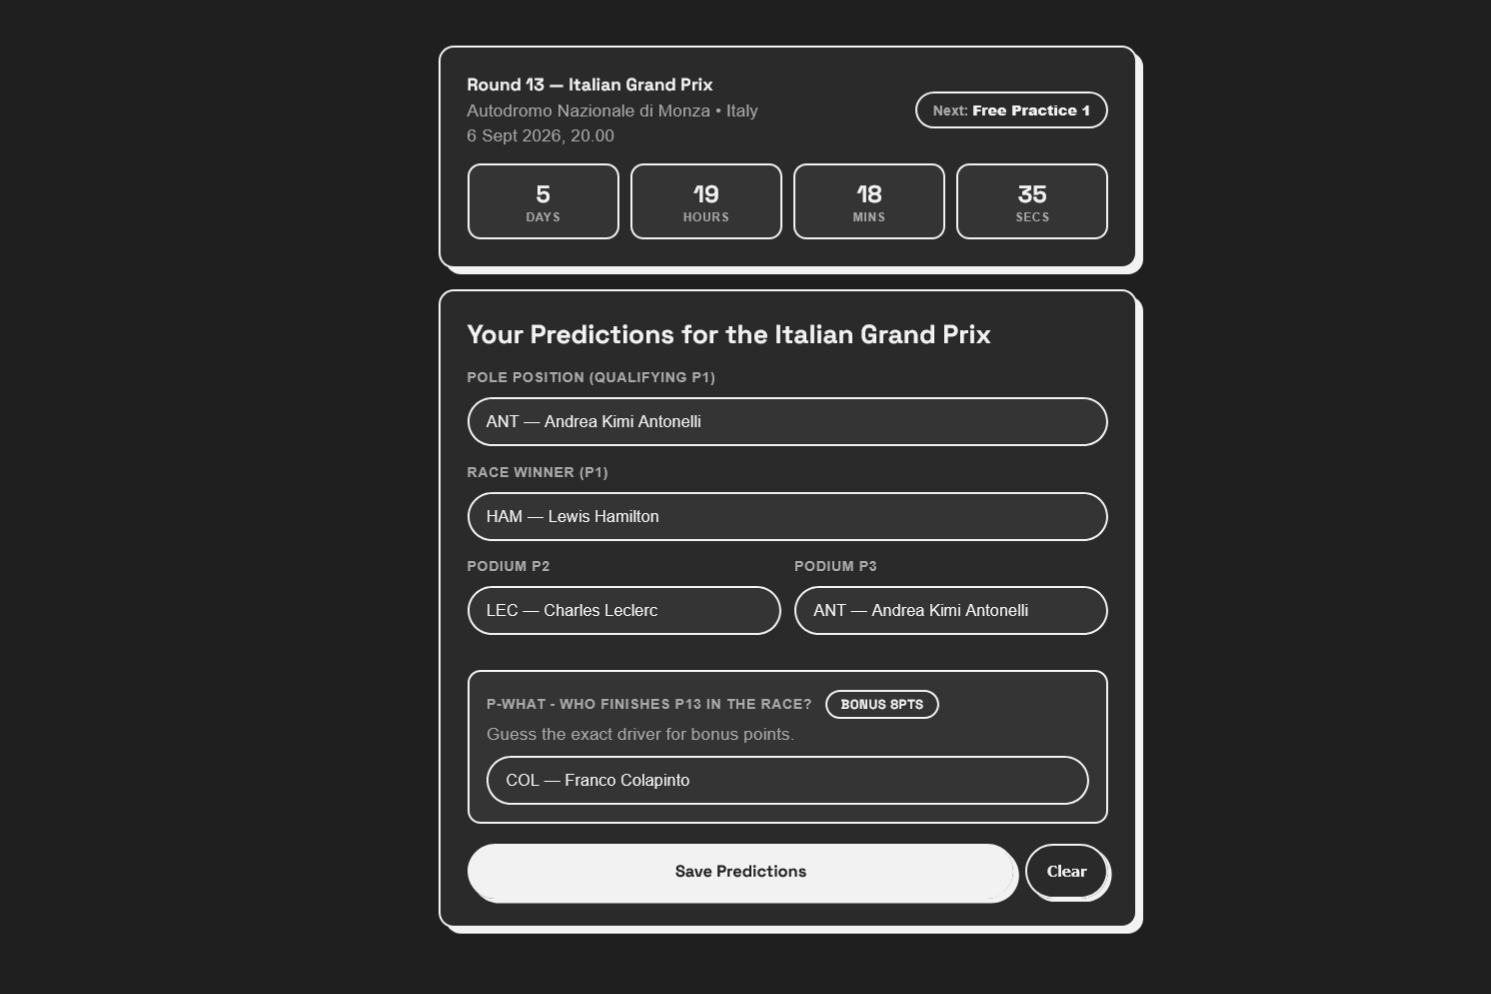
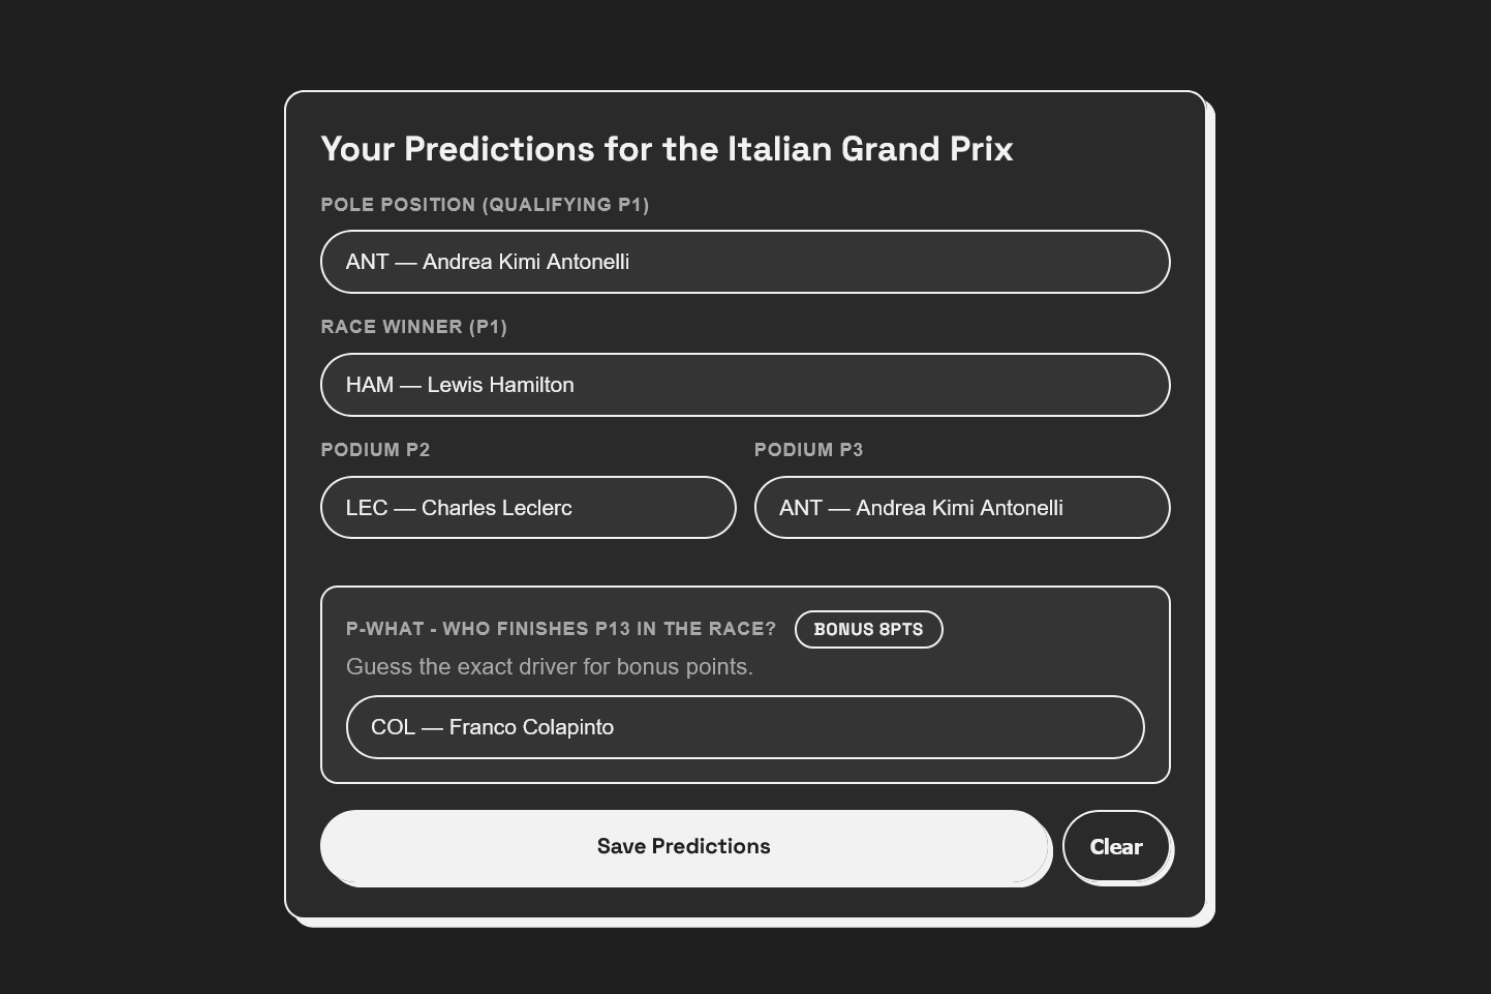
updated project cards and f1 prediction project page

Changed region(s): [[0.1851, 0.0312, 0.833, 0.9668]]

diff --git a/project-pages/f1-prediction.html b/project-pages/f1-prediction.html
@@ -12,7 +12,8 @@
     </script>
     <link rel="icon" href="../assets/images/favicon.png" />
     <title>F1 Weekend Predictor | Albert Benedict</title>
-    <meta name="description" content="Pick pole, winner, podium, sprint and wildcard for each F1 weekend and auto-score vs live results. Vanilla HTML/CSS/JS, Jolpica + OpenF1, cached via localStorage.">
+    <meta name="description"
+        content="Pick pole, winner, podium, sprint and wildcard for each F1 weekend and auto-score vs live results. Vanilla HTML/CSS/JS, Jolpica + OpenF1, cached via localStorage.">
     <meta name="viewport" content="width=device-width, initial-scale=1" />
     <link rel="stylesheet" href="../css/layout.css">
     <link rel="stylesheet" href="../css/typography.css">
@@ -35,10 +36,14 @@
     <div id="main-content">
         <div id="project-header">
             <div class="main-title">F1 Weekend Predictor</div>
-            <div class="body-text">A vanilla HTML/CSS/JS prediction game for Formula 1 weekends. Pick pole, podium, winner and a wildcard for each Grand Prix and see how you score once results are in — static site, no backend.</div>
+            <div class="body-text">A vanilla HTML/CSS/JS prediction game for Formula 1 weekends. Pick pole, podium,
+                winner and a wildcard for each Grand Prix and see how you score once results are in — static site, no
+                backend.</div>
             <div class="project-header-image-wrapper">
-                <img class="project-header-image light-image" src="../assets/images/desktop.jpeg" alt="F1 Predictor light">
-                <img class="project-header-image dark-image" src="../assets/images/desktop.jpeg" alt="F1 Predictor dark">
+                <img class="project-header-image light-image" src="../assets/images/predict-blank-light.png"
+                    alt="F1 Predictor light">
+                <img class="project-header-image dark-image" src="../assets/images/predict-blank-dark.png"
+                    alt="F1 Predictor dark">
             </div>
             <div class="project-links"><a class="button" href="https://albertbenedict.github.io/f1-prediction/"
                     target="_blank"><span class="button-text">Open Live
@@ -51,11 +56,34 @@
         <div id="project-details">
             <div class="subheader-text">Project Details / Background</div>
             <div class="project-details-content">
-                <div class="body-text">As an F1 fan I wanted a lightweight way to play the whole weekend — not just race winner. The game covers a full Grand Prix: pole, winner, P2/P3, plus sprint pole/win on sprint weekends and a bonus Wildcard (a random P4–22 slot drawn per round via a deterministic hash so everyone gets the same target).</div>
-                <div class="body-text"><strong>Tech:</strong> HTML (tabs: Play / Your Predictions / Standings / Past Results), CSS (vars <code>--bg-color / --surface / --border-color</code> + <code>Space Grotesk</code>), vanilla JS (<code>index.html + style.css + script.js</code>, no build). Data from <a href="https://github.com/jolpica/jolpica-f1">Jolpica Ergast</a> (schedule, standings, race/qualifying/sprint results) + <a href="https://openf1.org/">OpenF1</a> (sessions, driver headshots/team colours, team logos with overrides for HAD/LIN/TSU/BOT/PER) — cached in <code>localStorage</code> (<code>cache:*</code> with TTLs per type: standings 15m, schedule 1h, results 10m, sessions 5m, media 6h) so GitHub Pages stays functional without a server. Stale cache is served on fetch failure. Predictions stored as <code>f1predict:{season}:{round}</code> and auto-scored post-race.</div>
-                <div class="body-text"><strong>Scoring:</strong> Pole 5, Win 10, Podium exact 5 / wrong slot 2, Wildcard 8, Sprint Pole 3 / Sprint Win 5 — adjustable in <code>script.js:SCORING</code>. Duplicate check on Winner/P2/P3 (pole may overlap).</div>
-                <div class="body-text"><strong>What I learned:</strong> Countdown can't just count to the race — it has to walk the whole weekend. I fetch OpenF1 <code>sessions?year=</code> and fall back to Jolpica dates via <code>buildFallbackSessions()</code> if OpenF1 is down, then render <code>Next: FP2 / Now: FP3 / LIVE</code> with <code>getTimeLeft()</code> ticking every second. Biggest gotcha was data freshness on a static host — hence TTL'd cache + serving stale on failure — and mapping 22 drivers (2026 grid) with fallback initials/logos when <code>media.formula1.com</code> 404s.</div>
-                <div class="body-text"><strong>Next:</strong> Shareable prediction card, round-to-round points chart, and optional PWA offline cache for schedule/standings.</div>
+                <div class="body-text">There is this F1 content creator on Youtube who has this segment where they try
+                    and predict the result of the upcoming F1 Grand Prix. They also have this kind of mini championship
+                    amongst themselves where who predicted better gets more points. So I thought of making it into a
+                    simple app that can fetch the real F1 result while also calculating your prediction score.</div>
+                <div class="body-text"><strong>Tech:</strong> HTML (tabs: Play / Your Predictions / Standings / Past
+                    Results), CSS (vars <code>--bg-color / --surface / --border-color</code> +
+                    <code>Space Grotesk</code>), vanilla JS (<code>index.html + style.css + script.js</code>, no build).
+                    Data from <a href="https://github.com/jolpica/jolpica-f1">Jolpica Ergast</a> (schedule, standings,
+                    race/qualifying/sprint results) + <a href="https://openf1.org/">OpenF1</a> (sessions, driver
+                    headshots/team colours, team logos with overrides for HAD/LIN/TSU/BOT/PER) — cached in
+                    <code>localStorage</code> (<code>cache:*</code> with TTLs per type: standings 15m, schedule 1h,
+                    results 10m, sessions 5m, media 6h) so GitHub Pages stays functional without a server. Stale cache
+                    is served on fetch failure. Predictions stored as <code>f1predict:{season}:{round}</code> and
+                    auto-scored post-race.
+                </div>
+                <div class="body-text"><strong>Scoring:</strong> Pole 5, Win 10, Podium exact 5 / wrong slot 2, Wildcard
+                    8, Sprint Pole 3 / Sprint Win 5 — adjustable in <code>script.js:SCORING</code>. Duplicate check on
+                    Winner/P2/P3 (pole may overlap).</div>
+                <div class="body-text"><strong>What I learned:</strong> Countdown can't just count to the race — it has
+                    to walk the whole weekend. I fetch OpenF1 <code>sessions?year=</code> and fall back to Jolpica dates
+                    via <code>buildFallbackSessions()</code> if OpenF1 is down, then render
+                    <code>Next: FP2 / Now: FP3 / LIVE</code> with <code>getTimeLeft()</code> ticking every second.
+                    Biggest gotcha was data freshness on a static host — hence TTL'd cache + serving stale on failure —
+                    and mapping 22 drivers (2026 grid) with fallback initials/logos when <code>media.formula1.com</code>
+                    404s.
+                </div>
+                <div class="body-text"><strong>Next:</strong> Shareable prediction card, round-to-round points chart,
+                    and optional PWA offline cache for schedule/standings.</div>
             </div>
         </div>
 
@@ -67,21 +95,29 @@
                         <img src="../assets/images/desktop.jpeg" class="gallery-image light-image" alt="Play tab light">
                         <img src="../assets/images/desktop.jpeg" class="gallery-image dark-image" alt="Play tab dark">
                     </div>
-                    <span class="image-caption">Play — Countdown to FP1 then Next/Now per session (OpenF1 + Jolpica fallback), plus prediction form (Pole 5, Win 10, P2/P3 exact 5 / any podium 2, Wildcard P4–22 bonus 8).</span>
+                    <span class="image-caption">Play — Countdown to FP1 then Next/Now per session (OpenF1 + Jolpica
+                        fallback), plus prediction form (Pole 5, Win 10, P2/P3 exact 5 / any podium 2, Wildcard P4–22
+                        bonus 8).</span>
                 </div>
                 <div class="gallery-image-container half-width">
                     <div class="gallery-image-wrapper">
-                        <img src="../assets/images/code.jpeg" class="gallery-image light-image" alt="Predictions tab light">
-                        <img src="../assets/images/code.jpeg" class="gallery-image dark-image" alt="Predictions tab dark">
+                        <img src="../assets/images/code.jpeg" class="gallery-image light-image"
+                            alt="Predictions tab light">
+                        <img src="../assets/images/code.jpeg" class="gallery-image dark-image"
+                            alt="Predictions tab dark">
                     </div>
-                    <span class="image-caption">Your Predictions — current weekend + history from localStorage, auto-scored vs actual race/qualifying/sprint results.</span>
+                    <span class="image-caption">Your Predictions — current weekend + history from localStorage,
+                        auto-scored vs actual race/qualifying/sprint results.</span>
                 </div>
                 <div class="gallery-image-container">
                     <div class="gallery-image-wrapper">
-                        <img src="../assets/images/sketchbook.jpeg" class="gallery-image light-image" alt="Standings light">
-                        <img src="../assets/images/sketchbook.jpeg" class="gallery-image dark-image" alt="Standings dark">
+                        <img src="../assets/images/sketchbook.jpeg" class="gallery-image light-image"
+                            alt="Standings light">
+                        <img src="../assets/images/sketchbook.jpeg" class="gallery-image dark-image"
+                            alt="Standings dark">
                     </div>
-                    <span class="image-caption">Standings & Past Results — Drivers/Constructors from Jolpica with OpenF1 headshots/team colours, and Top 10 race / Top 5 quali / sprint Top 5 with Jump to round.</span>
+                    <span class="image-caption">Standings & Past Results — Drivers/Constructors from Jolpica with OpenF1
+                        headshots/team colours, and Top 10 race / Top 5 quali / sprint Top 5 with Jump to round.</span>
                 </div>
             </div>
         </div>
